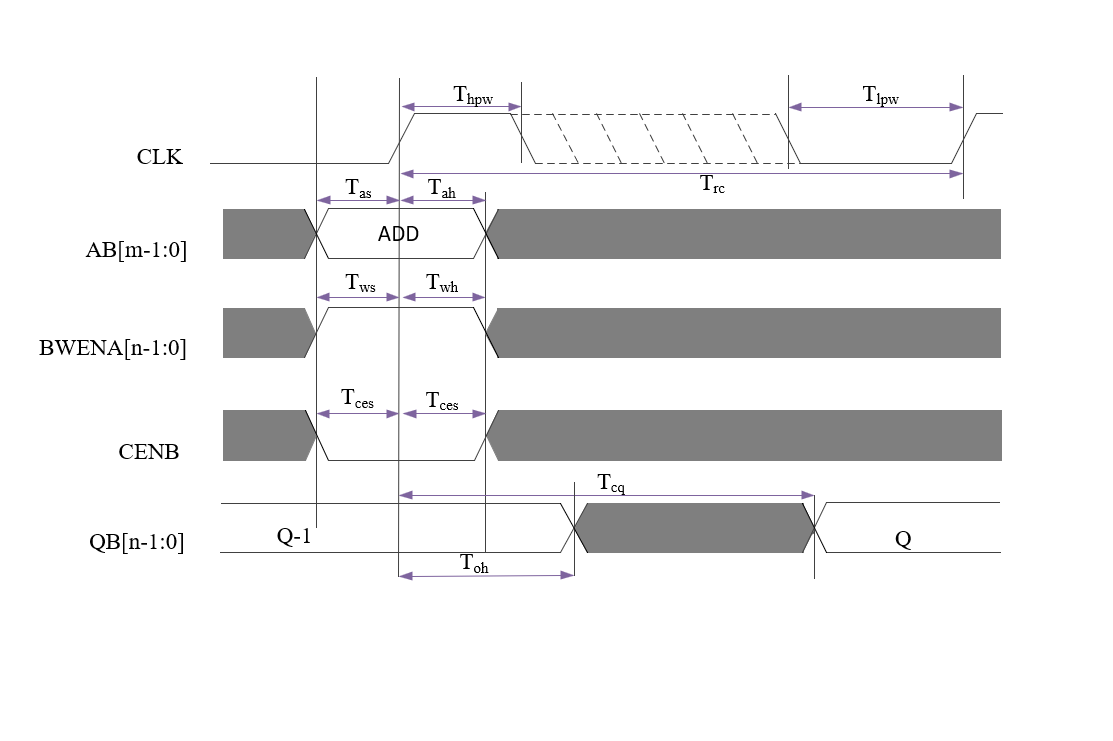
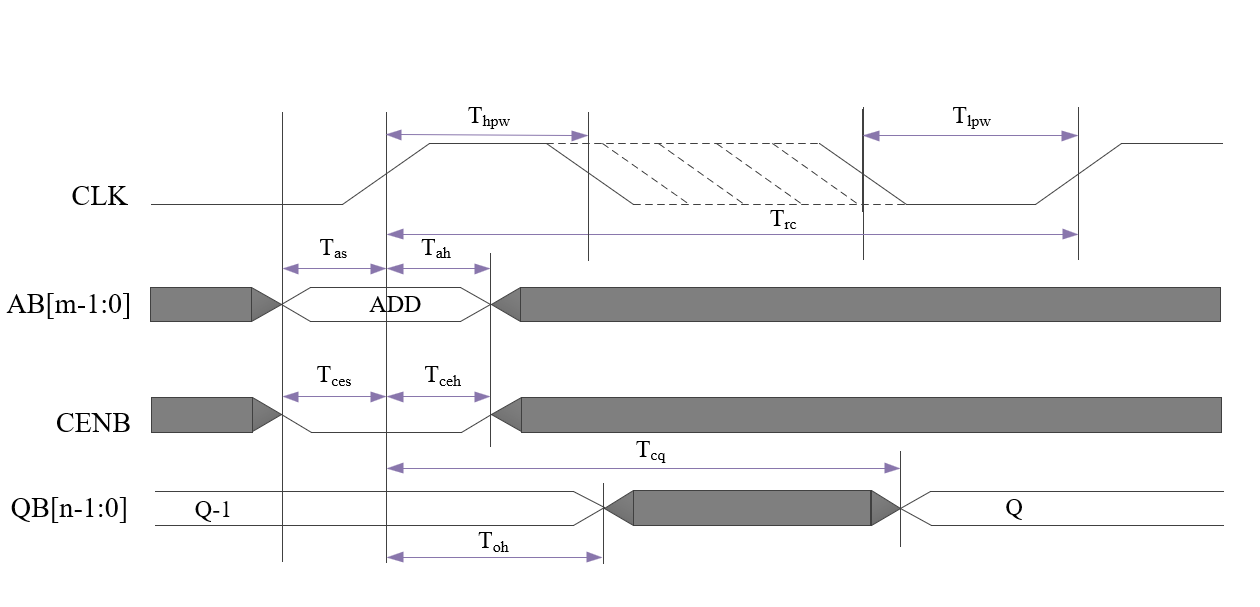
1.Fix errors in V02 MD files and tables 2.Update uhd two port read timing waveform 3.Modify PVT tables maxcolwidth in offdoc.py

diff --git a/offdoc.py b/offdoc.py
@@ -92,7 +92,7 @@ def get_table_from_excel(excel_file):
             md_table_name = list(excel_file_data['Table Name'])[0]
             excel_file_data = excel_file_data.drop('Table Name', axis=1)
             if "Standard PVT Corners" in md_table_name:
-                md_table_cont = tabulate(excel_file_data, headers="keys", tablefmt="grid", showindex=False, maxcolwidths=(40,10,6,6,20,30), colalign=("left","left","left","left","left","left"))
+                md_table_cont = tabulate(excel_file_data, headers="keys", tablefmt="grid", showindex=False, maxcolwidths=(45,10,6,6,20,30), colalign=("left","left","left","left","left","left"))
             elif "Timing Mode Settings" in md_table_name or 'Repair Elements Mode' in md_table_name or 'Performance Shape Settings' in md_table_name or 'Bit Write Enable' in md_table_name or 'CEN-Gating' in md_table_name:
                 md_table_cont = tabulate(excel_file_data, headers="keys", tablefmt="grid", showindex=False, maxcolwidths=(15,70), colalign=("left","left"))
             else:

diff --git a/Template/SC/V02/MD/High Density Via Rom Compiler/04_02_10_Extra_Margin_Control.md b/Template/SC/V02/MD/High Density Via Rom Compiler/04_02_10_Extra_Margin_Control.md
@@ -18,11 +18,11 @@ Memory compiler controls the operating frequency of the compiler and the robustn
 
 Table: Timing Mode Settings
 
-Memory compiler provides the enable signal through the `TMEH/TMEL` pin. The `TMEH/TMEL` pin allows for the selection between internal default margin control and external margin control. When `TMEH/TMEL` is low, the instance uses the default self-timing control.
+Memory compiler provides the enable signal through the `TME` pin. The `TME` pin allows for the selection between internal default margin control and external margin control. When `TME` is low, the instance uses the default self-timing control.
 
-There are `Timing Margin Control` bus pins available in the memory compiler. `TMH/TML` are used to trade-off between speed and robustness (`yield`). It is required that external access to all `TMH/TML` pins, including `TMEH/TMEL`, is provided for debug and yield analysis purposes. 
+There are `Timing Margin Control` bus pins available in the memory compiler. `TMH/TML` are used to trade-off between speed and robustness (`yield`). It is required that external access to all `TMH/TML` pins, including `TME`, is provided for debug and yield analysis purposes. 
 
-When `TMEH/TMEL` is high, instance margin could be adjusted by the Timing input pins. 
+When `TME` is high, instance margin could be adjusted by the Timing input pins. 
 The margin sequentially increases as `TMH/TML` sequentially decrease from All 1 to All 0, but the access time and cycle time will be sequentially enlarged as the pins driven from All 1 to All 0.
 
 The `Timing Margin Control` settings are user-adjustable. The user-side `TMH/TML` interface is uniformly encoded, ensuring that all compilers have the same default `TMH/TML` value. Users can configure the settings from the options shown in the table below according to their application requirements.    

diff --git a/Template/SC/V02/MD/High Density Via Rom Compiler/05_03_15_Standard_Operation_Characterization_Conditions.md b/Template/SC/V02/MD/High Density Via Rom Compiler/05_03_15_Standard_Operation_Characterization_Conditions.md
@@ -1,10 +1,8 @@
 #### Standard Operating Characterization Conditions
 
 
-
-Table: Standard PVT Corners - Single Rail
-
-
 > Note: `VDD`: Periphery Voltage;\
 >       `VDDC`: Array Voltage
+
+Table: Standard PVT Corners - Single Rail
 

diff --git a/Template/SC/V02/MD/Ultra High Density Single Port SRAM Compiler/05_03_15_Standard_Operation_Characterization_Conditions.md b/Template/SC/V02/MD/Ultra High Density Single Port SRAM Compiler/05_03_15_Standard_Operation_Characterization_Conditions.md
@@ -6,6 +6,5 @@
 
 Table: Standard PVT Corners - Single Rail
 
-
-
+Table: Standard PVT Corners - Dual Rail
 

diff --git a/Template/SC/V02/MD/High Density Dual Port SRAM Compiler/05_03_15_Standard_Operation_Characterization_Conditions.md b/Template/SC/V02/MD/High Density Dual Port SRAM Compiler/05_03_15_Standard_Operation_Characterization_Conditions.md
@@ -6,4 +6,4 @@
 
 Table: Standard PVT Corners - Single Rail
 
-
+Table: Standard PVT Corners - Dual Rail

diff --git a/Template/SC/V02/MD/High Density One Port Register File/05_03_15_Standard_Operation_Characterization_Conditions.md b/Template/SC/V02/MD/High Density One Port Register File/05_03_15_Standard_Operation_Characterization_Conditions.md
@@ -6,6 +6,6 @@
 
 Table: Standard PVT Corners - Single Rail
 
-
+Table: Standard PVT Corners - Dual Rail
 
 

diff --git a/Template/SC/V02/MD/High Density Two Port Register File/05_03_15_Standard_Operation_Characterization_Conditions.md b/Template/SC/V02/MD/High Density Two Port Register File/05_03_15_Standard_Operation_Characterization_Conditions.md
@@ -6,6 +6,6 @@
 
 Table: Standard PVT Corners - Single Rail
 
-
+Table: Standard PVT Corners - Dual Rail
 
 

diff --git a/Template/SC/V02/MD/High Speed One Port Register File/05_03_15_Standard_Operation_Characterization_Conditions.md b/Template/SC/V02/MD/High Speed One Port Register File/05_03_15_Standard_Operation_Characterization_Conditions.md
@@ -6,7 +6,7 @@
 
 Table: Standard PVT Corners - Single Rail
 
-
+Table: Standard PVT Corners - Dual Rail
 
 
 

diff --git a/Template/SC/V02/MD/High Speed Single Port SRAM Compiler/05_03_15_Standard_Operation_Characterization_Conditions.md b/Template/SC/V02/MD/High Speed Single Port SRAM Compiler/05_03_15_Standard_Operation_Characterization_Conditions.md
@@ -6,6 +6,6 @@
 
 Table: Standard PVT Corners - Single Rail
 
-
+Table: Standard PVT Corners - Dual Rail
 
 

diff --git a/Template/SC/V02/MD/High Speed Two Port Register File/05_03_15_Standard_Operation_Characterization_Conditions.md b/Template/SC/V02/MD/High Speed Two Port Register File/05_03_15_Standard_Operation_Characterization_Conditions.md
@@ -6,6 +6,6 @@
 
 Table: Standard PVT Corners - Single Rail
 
-
+Table: Standard PVT Corners - Dual Rail
 
 

diff --git a/Template/SC/V02/MD/Public/04_02_09_Self_Time_Bypass.md b/Template/SC/V02/MD/Public/04_02_09_Self_Time_Bypass.md
@@ -2,5 +2,5 @@
 
 Memory compilers support the Self Time Bypass mode.
 
-In this mode (T\_ICLKBYP=1), the memory’s internal self-timing loop is breakdown, and memory operation timing is controled by external CLK. It’s for memory debug purpose.
+In this mode (T\_ICLKBYP=1), the memory’s internal self-timing loop is breakdown, and memory operation timing is controlled by external CLK. It’s for memory debug purpose.
 

diff --git a/Template/SC/V02/MD/Public/A000G/09_01_00_Expanded_Instance_Naming_Rule.md b/Template/SC/V02/MD/Public/A000G/09_01_00_Expanded_Instance_Naming_Rule.md
@@ -7,7 +7,7 @@ The automatic memory name of the instance is generated by combining information 
 
 The breakdown of the name is as follows, see Table 6-1 for details:
 
-`YG A000G HS 1P RF 1024 X 32 M4 B2 VT0 W0 C1 T0 P0 R0 S0 A0 ME0 E0 _ ECC _ HSHC`
+`YG A000G HS 1P RF 1024 X 32 M4 B2 VT0 W0 C1 T0 P0 S0 R0 A0 ME0 E0 _ ECC _ HSHC`
 
 `1  2     3  4  5  6      7  8  9  10  11 12 13 14 15 16 17 18    19    20    21`
 